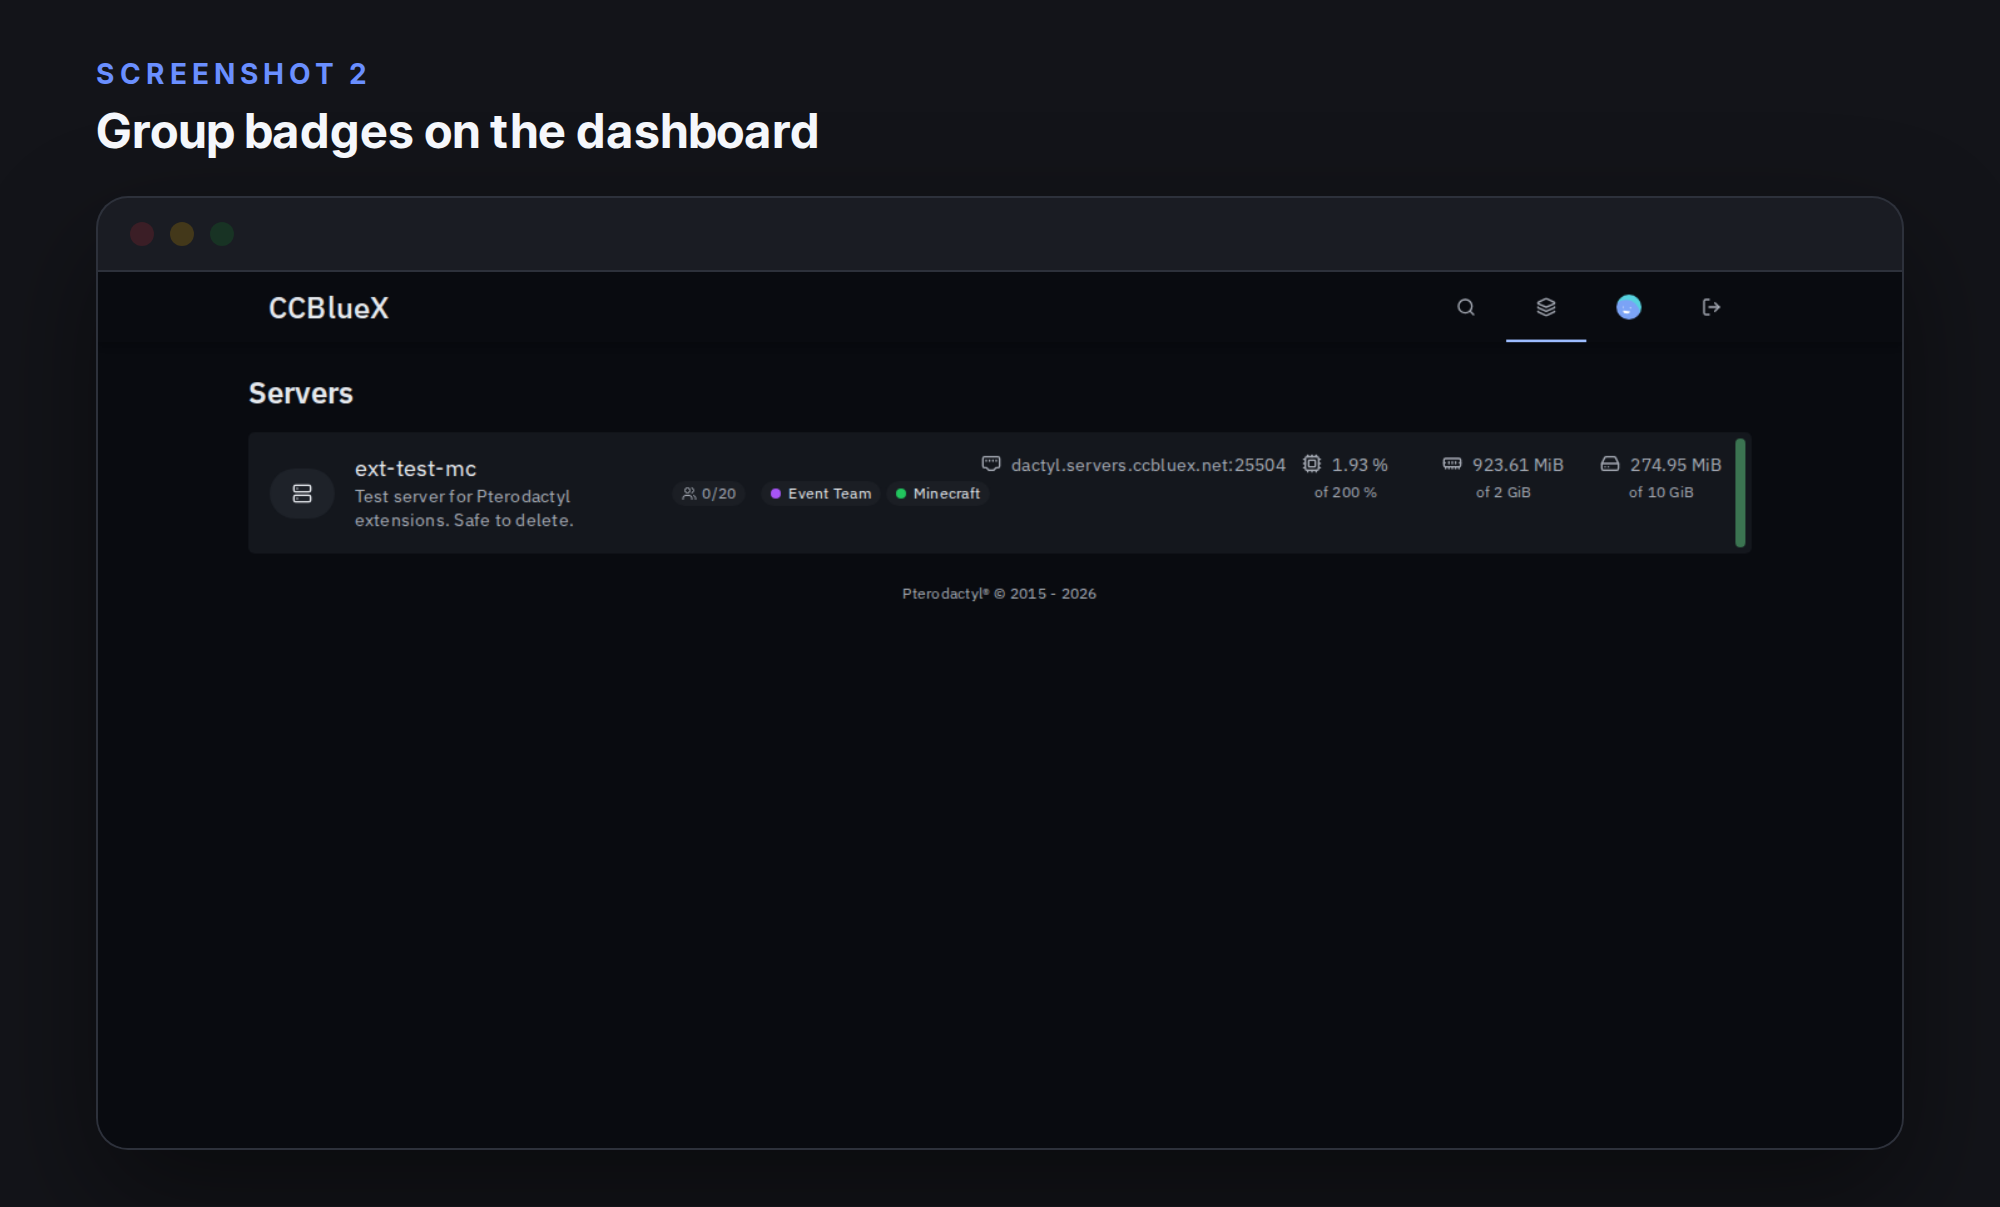
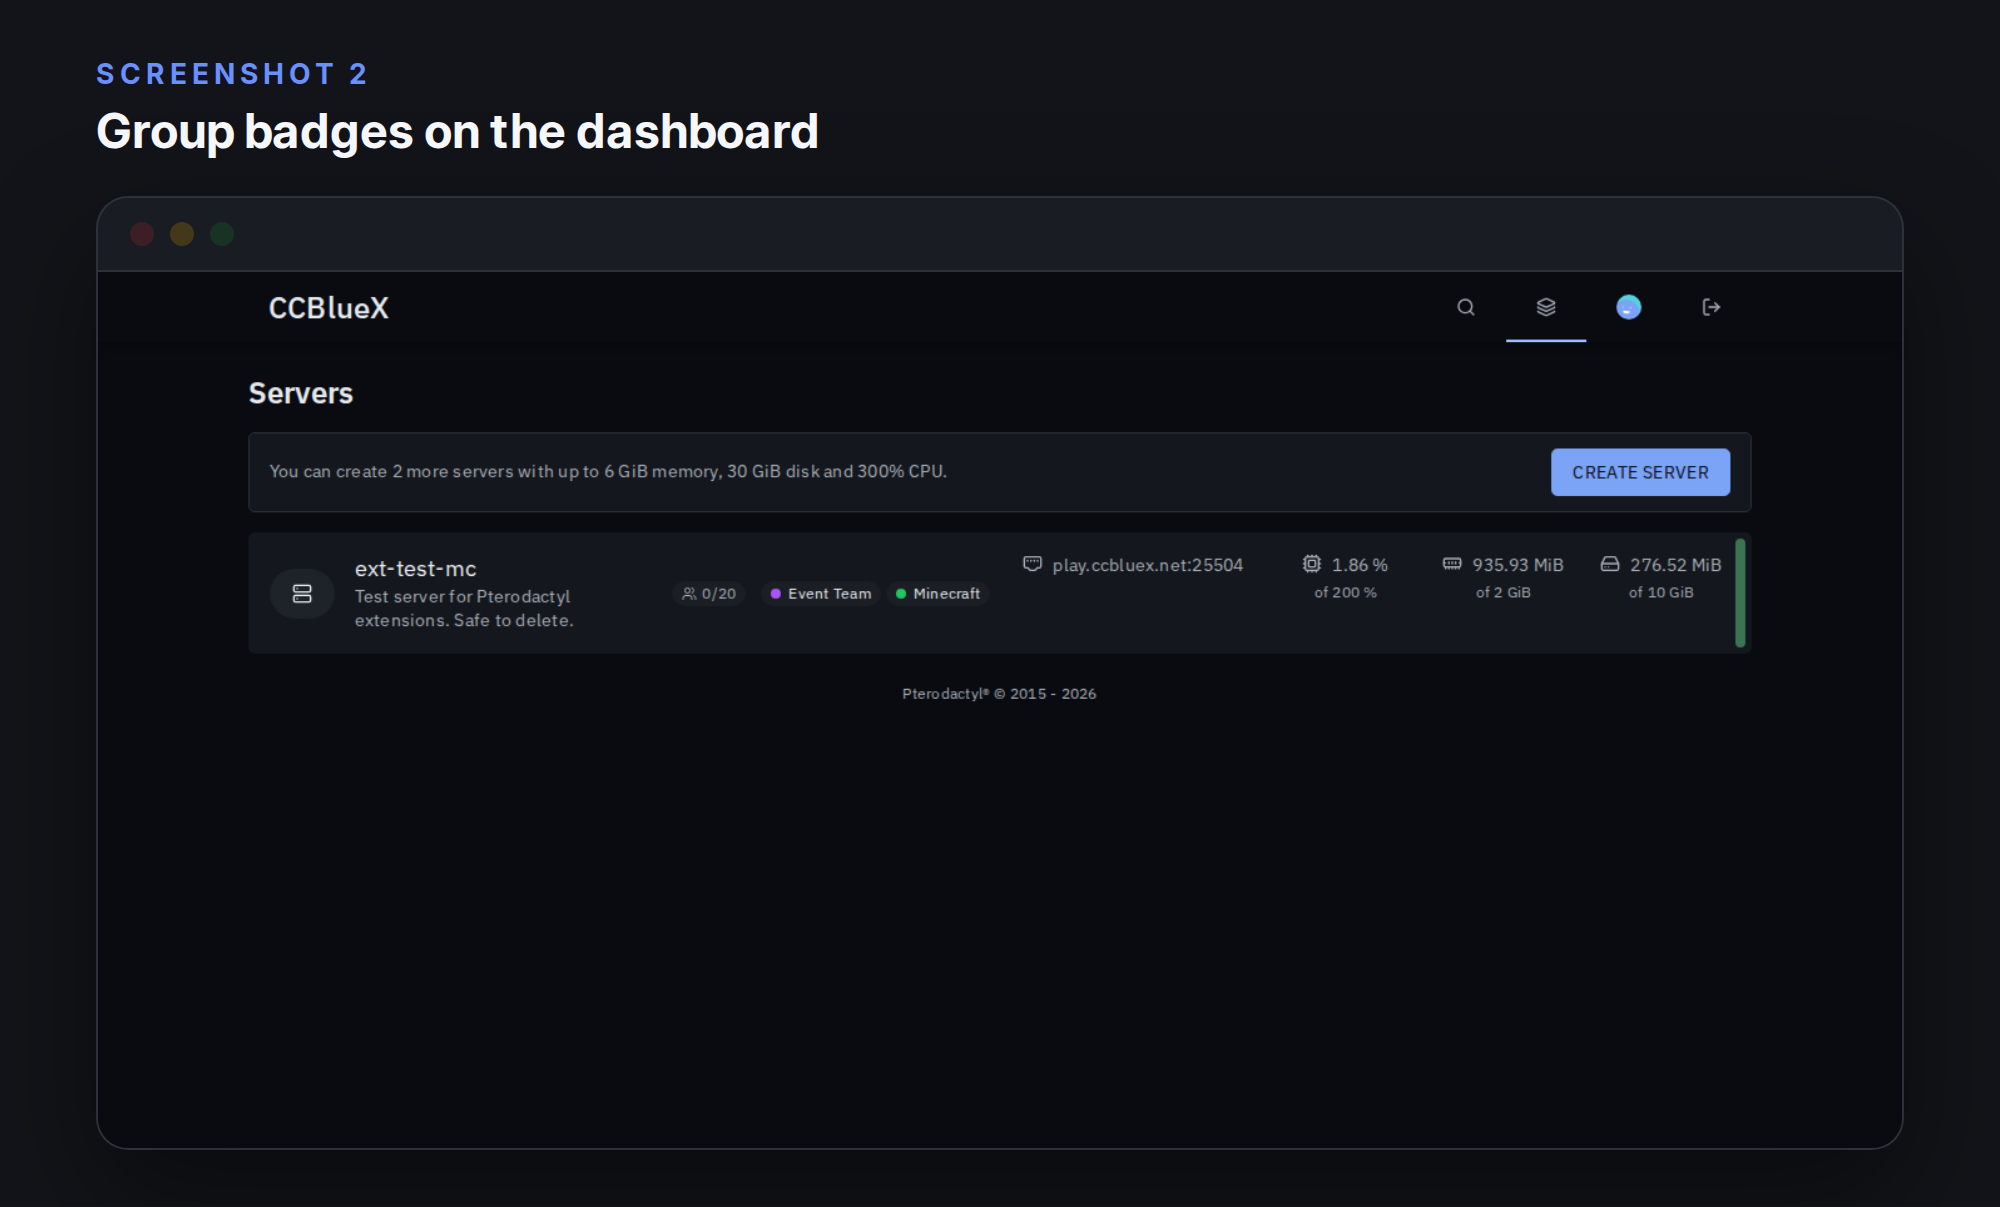
docs: move to ccbluex and hide node hostnames

diff --git a/README.md b/README.md
@@ -1,9 +1,9 @@
 # Server Groups for Pterodactyl
 
-[![Release](https://img.shields.io/github/v/release/1zun4/Pterodactyl-Extension-Server-Groups?style=flat-square)](https://github.com/1zun4/Pterodactyl-Extension-Server-Groups/releases/latest)
-[![Downloads](https://img.shields.io/github/downloads/1zun4/Pterodactyl-Extension-Server-Groups/total?style=flat-square)](https://github.com/1zun4/Pterodactyl-Extension-Server-Groups/releases)
+[![Release](https://img.shields.io/github/v/release/CCBlueX/Pterodactyl-Extension-Server-Groups?style=flat-square)](https://github.com/CCBlueX/Pterodactyl-Extension-Server-Groups/releases/latest)
+[![Downloads](https://img.shields.io/github/downloads/CCBlueX/Pterodactyl-Extension-Server-Groups/total?style=flat-square)](https://github.com/CCBlueX/Pterodactyl-Extension-Server-Groups/releases)
 [![Pterodactyl](https://img.shields.io/badge/Pterodactyl-2.0-0e4688?style=flat-square)](https://pterodactyl.io)
-[![License](https://img.shields.io/github/license/1zun4/Pterodactyl-Extension-Server-Groups?style=flat-square)](LICENSE)
+[![License](https://img.shields.io/github/license/CCBlueX/Pterodactyl-Extension-Server-Groups?style=flat-square)](LICENSE)
 
 Group servers, colour them on the dashboard and give a team access to a whole group at once.
 
@@ -11,7 +11,7 @@ Group servers, colour them on the dashboard and give a team access to a whole gr
 
 ## Install
 
-1. Download `server-groups-<version>.pteroext` from the [latest release](https://github.com/1zun4/Pterodactyl-Extension-Server-Groups/releases/latest).
+1. Download `server-groups-<version>.pteroext` from the [latest release](https://github.com/CCBlueX/Pterodactyl-Extension-Server-Groups/releases/latest).
 2. Install and enable it under **Admin → Extensions**.
 3. Create your first group under **Admin → Server Groups**.
 
